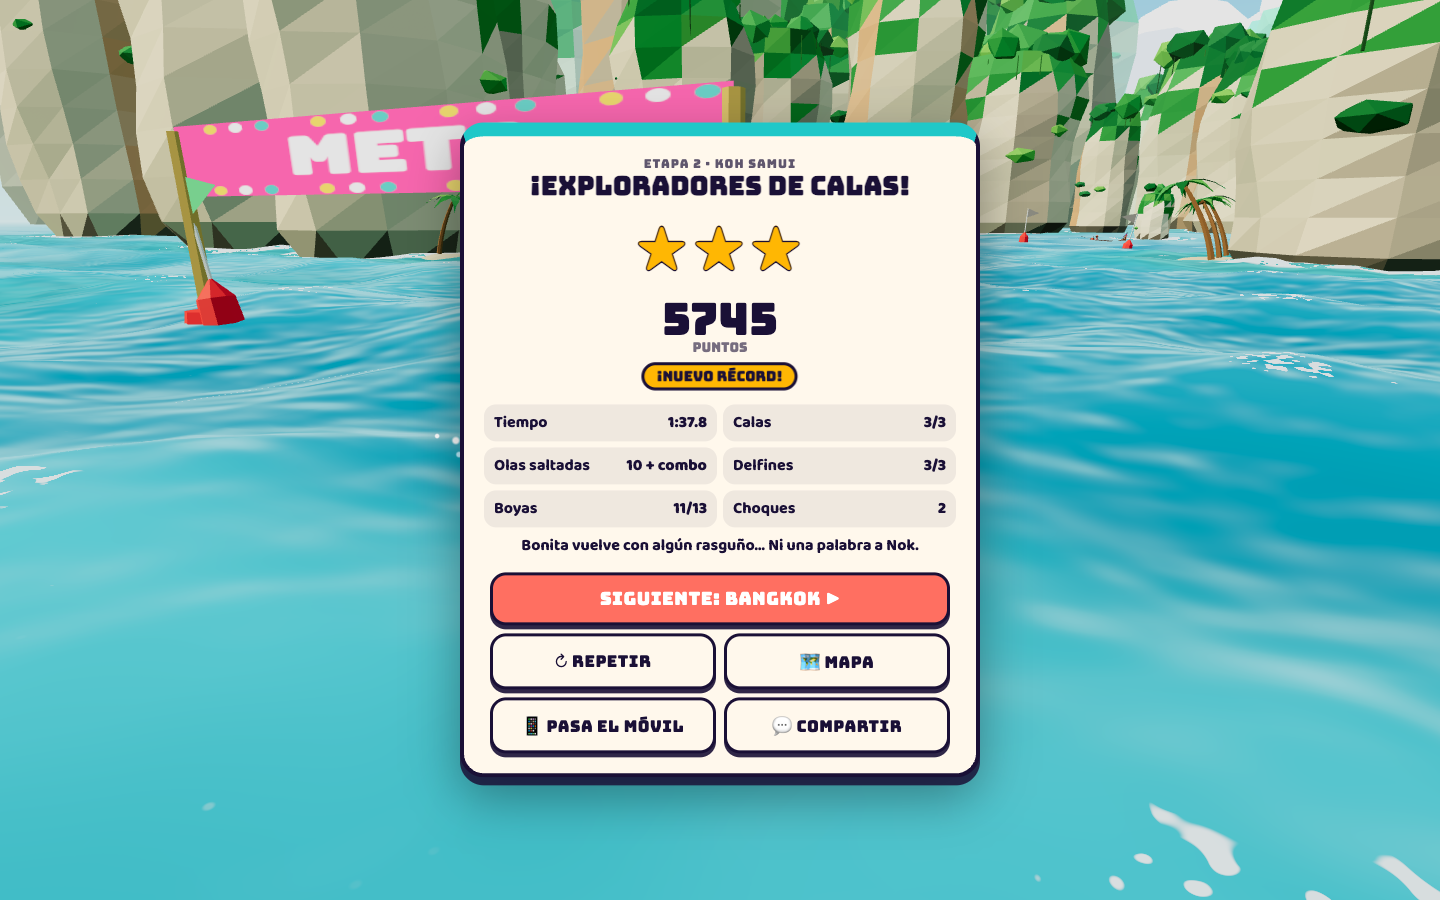
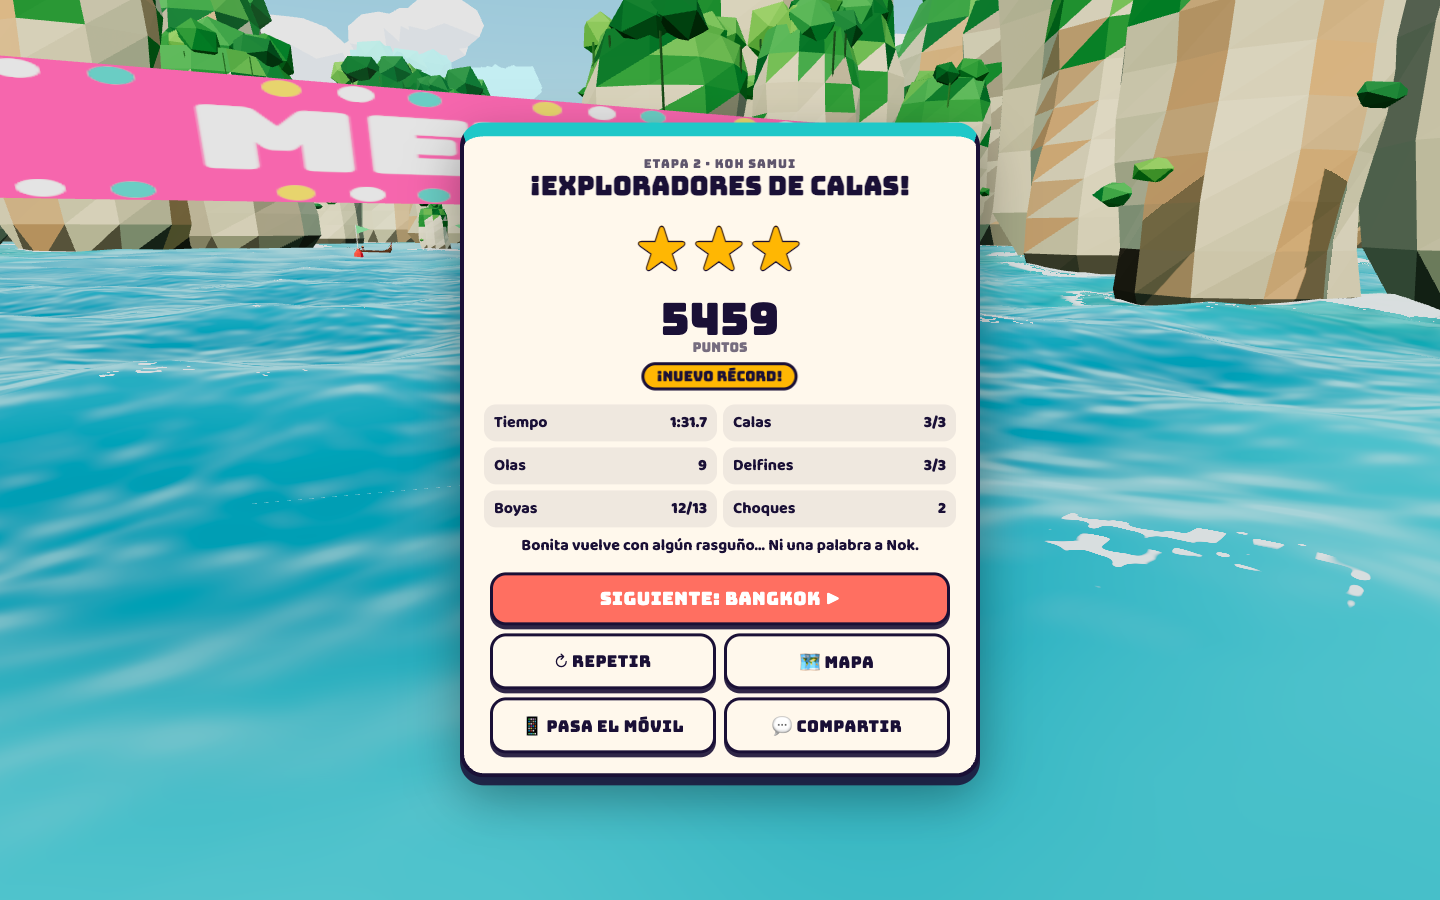
Koh Samui ronda 3: delfines a la vista, olas gigantes de verdad, combo que resta tiempo, 3★ a 1:45

diff --git a/src/stages/samui/index.js b/src/stages/samui/index.js
@@ -122,7 +122,7 @@ export default {
       for (let k = 0; k < se.n; k++) {
         const r = free[k], s = se.s + k * (se.giant ? 46 : 17), a = path.at(s);
         Object.assign(r.b, { cx: a.x, cz: a.z, dx: -a.tx, dz: -a.tz, amp: 0, w: se.giant ? 1.9 : 1 });
-        Object.assign(r, { active: true, age: -k * 0.25, target: se.giant ? 3.8 : 1.35 + ctx.rng.range(-0.1, 0.15), giant: !!se.giant, prevAl: 999, done: false, dying: false });
+        Object.assign(r, { active: true, age: -k * 0.25, target: se.giant ? 4.4 : 1.35 + ctx.rng.range(-0.1, 0.15), giant: !!se.giant, prevAl: 999, done: false, dying: false });
       }
       se.spawned = true;
       if (se.giant) { st.combo = 0; st.giantOn = true; audio.sfx('crash', { pitch: 0.35, vol: 0.8 }); audio.sfx('firework', { pitch: 0.4 }); ctx.shout('🌊 ¡SERIE GIGANTE!', { color: '#7cf5e6' }); engine.shake(0.3); audio.sfx('whoosh'); ui.hint('¡Cuatro olas enormes! Cógelas <b>todas rectas</b> con turbo para el combo', 2600); return true; }
@@ -226,7 +226,7 @@ export default {
       get gate() { return st.gate; }, gates: gates.length, get gatesOk() { return st.gatesOk; },
       get calas() { return st.calas; }, get olas() { return st.olas; }, get speed() { return st.speed; }, get turbo() { return st.turbo; },
       get air() { return st.air; }, get running() { return st.running; }, get done() { return st.done; }, get win() { return st.win; }, get stars() { return st.stars; },
-      get x() { return st.x; }, get z() { return st.z; }, get yaw() { return st.yaw; }, get rockHits() { return st.rockHits; }, get dolphins() { return st.dolphins || 0; }, get combo() { return st.combo || 0; }, get giant() { return !!st.giantOn; }, get dolphinsOn() { return !!dolphins.state.announced && !dolphins.state.done; }, get dolDbg() { return { st: dolphins.state, s0: dolphinS0, pod: dolphins.pod.map((d) => [Math.round(d.x), Math.round(d.y), Math.round(d.z), d.group.visible]) }; }, get ev() { return st.ev; }, get boatHits() { return st.boatHits; },
+      get x() { return st.x; }, get z() { return st.z; }, get yaw() { return st.yaw; }, get rockHits() { return st.rockHits; }, get dolphins() { return st.dolphins || 0; }, get combo() { return st.combo || 0; }, get giant() { return !!st.giantOn; }, get giantDist() { let g = 999; for (const r of ridges) if (r.active && r.giant && !r.done) g = Math.min(g, Math.hypot(r.b.cx - st.x, r.b.cz - st.z)); return g; }, get dolphinsOn() { return !!dolphins.state.announced && !dolphins.state.done; }, get dolDbg() { return { st: dolphins.state, s0: dolphinS0, pod: dolphins.pod.map((d) => [Math.round(d.x), Math.round(d.y), Math.round(d.z), d.group.visible]) }; }, get ev() { return st.ev; }, get boatHits() { return st.boatHits; },
       goodTime, pilot, debugCam: null, get hitLog() { return st.hitLog; }, get track() { return st.track; },
       debugInfo: () => ({ calas: calas.map((c) => ({ x: c.x, z: c.z, s: c.s, back: c.back, entry: c.entry })), gates: gates.map((g) => ({ x: g.x, z: g.z })), start: { x: start.x, z: start.z }, monkey: world.monkeyRock, boats: world.boats.map((b) => ({ x: b.x, z: b.z })), anchored: world.anchored.map((b) => ({ x: b.x, z: b.z })) }),
     };
@@ -431,9 +431,10 @@ export default {
           r.done = true;
           const cosA = -(fxv * b.dx + fzv * b.dz);
           (st.ev = st.ev || []).push(['X', Math.round(st.s), +cosA.toFixed(2), Math.round(st.speed), r.giant ? 'G' : '']);
-          if (st.speed > 13 && cosA > 0.8) launch((4 + st.speed * 0.27) * (r.giant ? 1.5 : 1), r.giant);
+          if (st.speed > 13 && cosA > 0.8) {
+            launch((4 + st.speed * 0.27) * (r.giant ? 1.5 : 1), r.giant);
             if (r.giant) { engine.slowmo(0.7, 0.4); engine.shake(0.35); audio.sfx('crash', { pitch: 0.5 }); }
-          else if (st.speed > 6) {
+          } else if (st.speed > 6) {
             st.air = true; st.airT = 0; st.vy = 2.6; st.speed *= 0.85; st.lastGiant = !!r.giant;
             splash(st.x, st.y, st.z, 14, 3);
             if (cosA <= 0.8) ctx.shout('¡Recta, recta!', { size: 'peque', color: '#9ad7ff' });
@@ -444,7 +445,7 @@ export default {
 
       // ── delfines ──
       dolphins.update(dt, tAll, st, path, sea, {
-        start: () => { ctx.shout('🐬 ¡DELFINES!', { color: '#9ad7ff' }); ui.hint('¡Pasa <b>junto a los delfines</b> cuando salten: cada uno te da turbo!', 2600); audio.sfx('bell', { vol: 0.5 }); },
+        start: () => { ctx.shout('🐬 ¡DELFINES!', { color: '#9ad7ff', cls: 'sm-alto' }); ui.hint('¡Pasa <b>junto a los delfines</b> cuando salten: cada uno te da turbo!', 2600); audio.sfx('bell', { vol: 0.5 }); },
         splash: (x, y, z) => fx.emit(4, { x, y: y + 0.2, z }, { spread: 1, vel: { x: 0, y: 3, z: 0 }, velSpread: 2.5, colors: ['#ffffff', '#dff8ff'], life: 0.7, size: 0.4, gravity: -12 }),
         gift: (d) => {
           st.turbo = Math.min(1, st.turbo + 0.34); st.dolphins = (st.dolphins || 0) + 1;
@@ -554,7 +555,8 @@ export default {
       cam.orbit = damp(cam.orbit, cam.orbitT > 0 ? 1 : 0, 1.5, realDt);
       cam.yaw += angleDiff(cam.yaw, st.yaw * 0.6 + (st.yaw + angleDiff(st.yaw, st.velYaw)) * 0.4) * (1 - Math.exp(-4 * dt));
       let cy = cam.yaw + cam.orbit * cam.orbitSide * (camera.aspect < 1 ? 0.25 : 0.7);
-      let dist = 8.8 + st.speed * 0.07 + cam.orbit * 2.5, hgt = 4.6 + cam.orbit * 1.2 - (st.air ? 0.4 : 0);
+      const portrait = camera.aspect < 1 ? 1.3 : 1;
+      let dist = (8.8 + st.speed * 0.07 + cam.orbit * 2.5) * portrait, hgt = (4.6 + cam.orbit * 1.2 - (st.air ? 0.4 : 0)) * (portrait > 1 ? 1.2 : 1);
       if (!st.running && !st.done) { cy = st.yaw + Math.PI + 0.75 + Math.sin(tAll * 0.3) * 0.08; dist = 9.5 / Math.min(1, camera.aspect * 1.4); hgt = 2.8 + (dist - 9.5) * 0.12; }
       if (st.done) {
         if (cam.finishYaw === undefined) {
@@ -578,7 +580,8 @@ export default {
       camera.position.lerp(tmpV, 1 - Math.exp(-(cam.orbit > 0.02 ? 3 * realDt : 6 * dt)));
       const intro = !st.running && !st.done ? 1 : 0;
       const ahead = Math.pow(1 - cam.orbit, 3) * (st.done ? 0 : 1);
-      camera.lookAt(st.x + fxv * 8 * ahead * (1 - intro) - fzv * 1.6 * intro, st.y + 1.5 - intro * 0.3, st.z + fzv * 8 * ahead * (1 - intro) + fxv * 1.6 * intro);
+      const cfx = Math.sin(cy), cfz = Math.cos(cy);
+      camera.lookAt(st.x + cfx * 8 * ahead * (1 - intro) - fzv * 1.6 * intro, st.y + 1.5 - intro * 0.3, st.z + cfz * 8 * ahead * (1 - intro) + fxv * 1.6 * intro);
       // flecha de pantalla hacia la siguiente boya
       const ngt = gates[st.gate];
       if (playing && ngt && !etapa.debugCam) {

diff --git a/src/stages/samui/delfines.js b/src/stages/samui/delfines.js
@@ -26,7 +26,8 @@ export function createDolphins(scene, { s0, length = 230, speed = 15, lanes = [-
     update(dt, t, boat, path, sea, cb) {
       if (state.done) return;
       if (!state.on) {
-        if (boat.s > s0 - 75 && boat.s < s0 + 80 && Math.abs(boat.lat) < 22 && !boat.air) { state.on = true; state.yaw = boat.yaw; pod.forEach((d) => { d.group.visible = true; }); }
+        const pa = path.at(boat.s), dy = Math.atan2(Math.sin(boat.yaw - Math.atan2(pa.tx, pa.tz)), Math.cos(boat.yaw - Math.atan2(pa.tx, pa.tz)));
+        if (boat.s > s0 - 75 && boat.s < s0 + 120 && Math.abs(boat.lat) < 14 && Math.abs(dy) < 0.35 && !boat.air) { state.on = true; state.yaw = boat.yaw; pod.forEach((d) => { d.group.visible = true; }); }
         else return;
       }
       state.t += dt;
@@ -36,8 +37,8 @@ export function createDolphins(scene, { s0, length = 230, speed = 15, lanes = [-
       const ending = state.t > 13;
       let anyVisible = false;
       for (const d of pod) {
-        const ahead = 26 - state.t * 3.2 + d.ph * 10;
-        const lat = d.lane + Math.sin(t * 0.8 + d.ph * 5) * 0.8;
+        const ahead = 22 - state.t * 2.6 + d.ph * 8;
+        const lat = d.lane * (innerWidth < innerHeight ? 0.7 : 1) + Math.sin(t * 0.8 + d.ph * 5) * 0.8;
         const x = boat.x + fx * ahead + rx * lat, z = boat.z + fz * ahead + rz * lat;
         const cyc = ((t * 0.55 + d.ph) % 1 + 1) % 1;
         const air = cyc < 0.45;

diff --git a/src/stages/samui/efectos.js b/src/stages/samui/efectos.js
@@ -8,6 +8,7 @@ const CSS = `
 .sm-turbo.lleno i { box-shadow: 0 0 8px #ffb703; }
 .sm-turbo.activo { color: #ffd23f; }
 #ui > .grito.sm-alto { top: 20%; }
+@media (max-width: 600px) { #ui > .grito.sm-alto { top: 27%; } }
 .sm-calas { font-family: var(--titulo); font-size: 13px; letter-spacing: .5px; } .sm-calas small { font-size: 13px; margin-left: 3px; }
 .sm-hint { position: fixed; left: 50%; top: calc(112px + var(--safe-t)); transform: translateX(-50%); width: max-content; max-width: min(92vw, 520px); background: rgba(255,248,236,.95); color: #1a1036; border: 3px solid #1a1036; border-radius: 14px; padding: 7px 14px; font-size: 15px; line-height: 1.25; text-align: center; z-index: 5; pointer-events: none; box-shadow: 0 4px 0 rgba(26,16,54,.9); animation: smhint .3s ease-out; }
 @keyframes smhint { from { transform: translate(-50%, -12px); opacity: 0; } }
